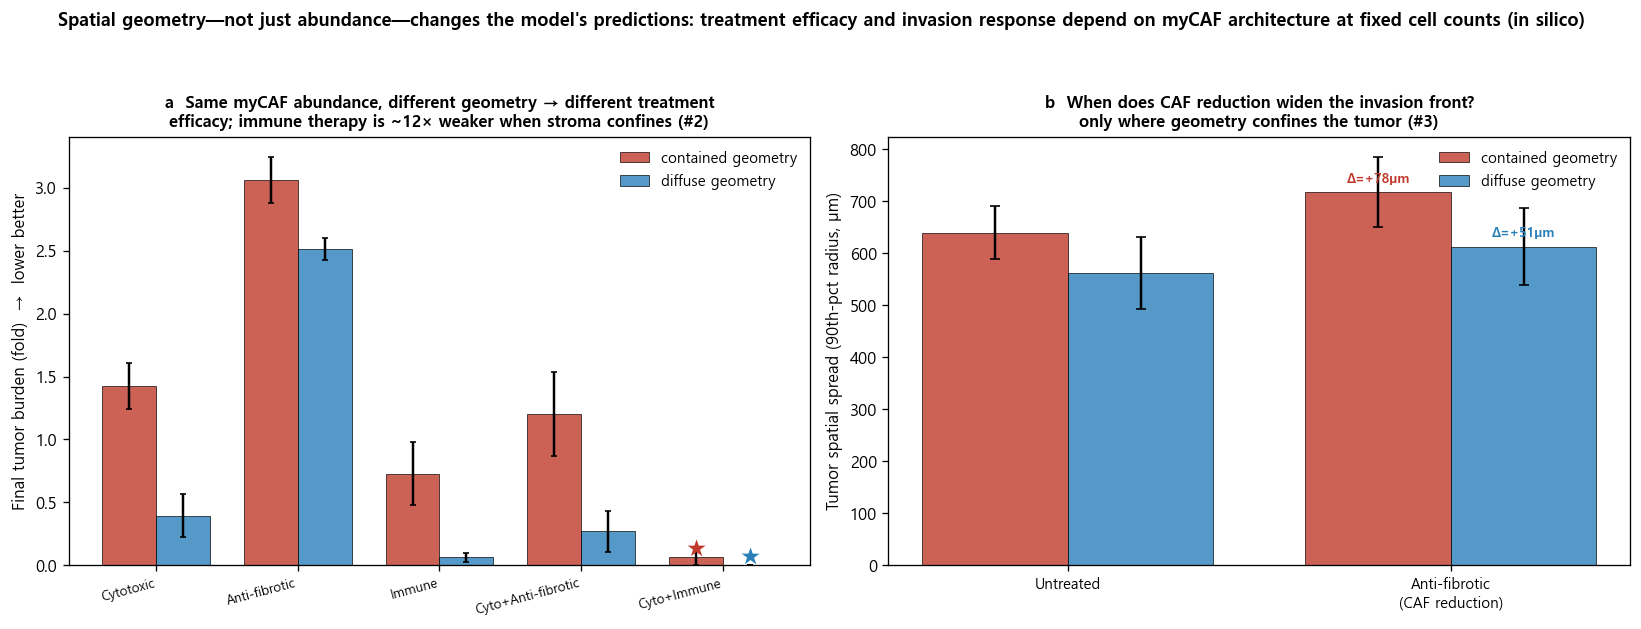
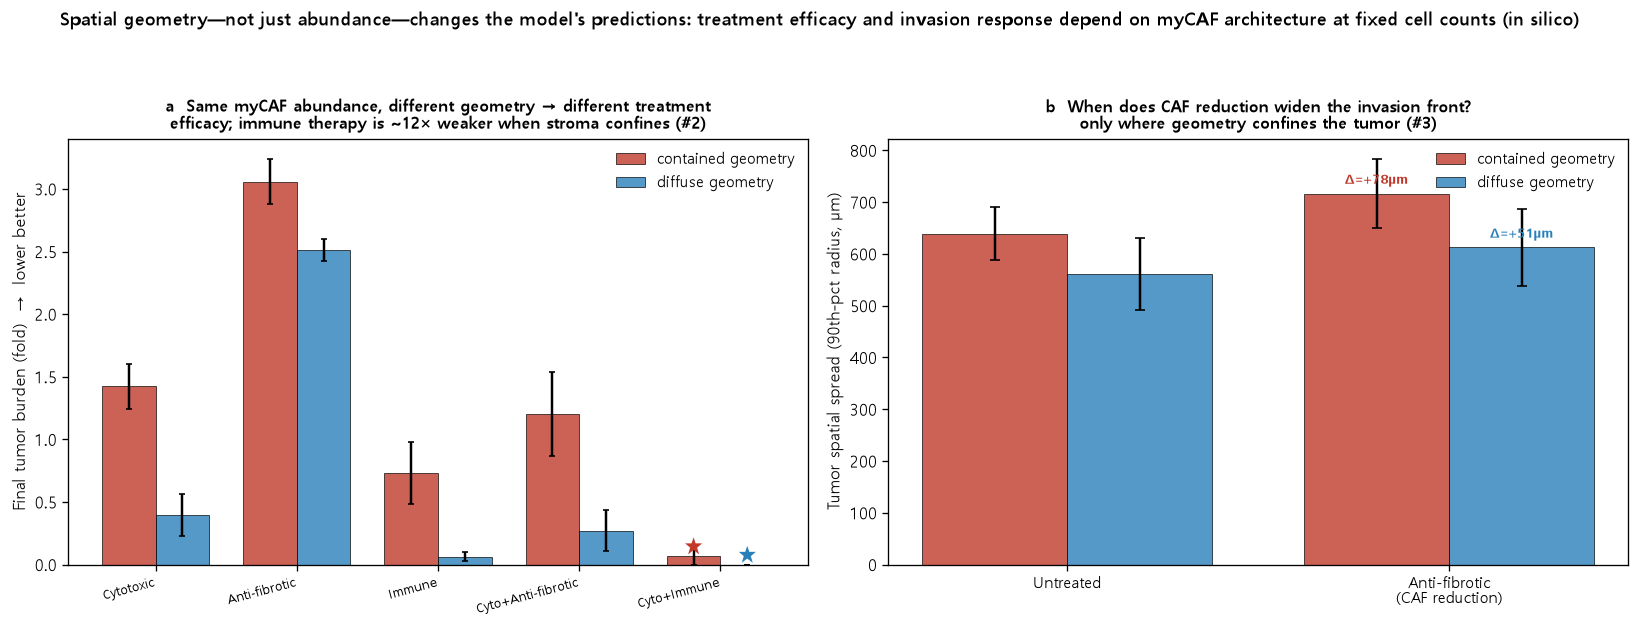
fix(sobol): restore the archived Sobol indices; revert Fig S7 values
390d44c replaced the DRM-wrapped sobol_indices.csv with a fresh re-run and
changed the reported values. The original plaintext file was still in git
history (7dcac82^), and it matches the manuscript exactly (final burden:
k_prolif S_T 0.733, k_kill S_T 0.609, S_1 0.233). Because SALib >=1.4 draws a
scrambled, unseeded Saltelli sample, a re-run cannot reproduce it, so the
archived run is restored as the reported analysis:

- data/sobol_indices.csv, assets/sobol.png restored from history
- §4.5 and Fig S7 caption back to S_T 0.73 / 0.61 (S_1 0.23), barrier and
  resistance terms S_T <= 0.12; HANDOFF likewise
- REBUILD_GUIDE §8 keeps the archived values and notes that a re-run moves the
  indices within the bootstrap CIs (e.g. 0.79 / 0.44) while the ranking holds
- the future-work wording fix from 390d44c (proliferation and T-cell killing
  are the Sobol-dominant terms) is kept

Also restores data/predict_geometry.csv and its figure to the archived run;
the phone re-run differed only at ~1e-13. The other 14 regenerated CSVs in
26f4017 are byte-identical to the archived originals.

diff --git a/docs/manuscript/manuscript.md b/docs/manuscript/manuscript.md
@@ -885,10 +885,10 @@ proliferation and immune-barrier parameters, which therefore require empirical
 calibration, and control was not guaranteed under the most aggressive proliferation
 regimes. A variance-based global (Sobol) analysis over eight parameters concurs and
 sharpens this: for final tumor burden, tumor proliferation (total-order
-$S_T\approx0.79$) and cytotoxic T-cell killing ($S_T\approx0.44$) dominate, with killing
-acting substantially through interactions ($S_T\approx0.44$ vs $S_1\approx0.13$), whereas
+$S_T\approx0.73$) and cytotoxic T-cell killing ($S_T\approx0.61$) dominate, with killing
+acting substantially through interactions ($S_T\approx0.61$ vs $S_1\approx0.23$), whereas
 the barrier parameters—physical confinement and immune exclusion—and the resistance terms
-each contribute little to the *global* variance in burden ($S_T\lesssim0.04$; Fig. S7).
+each contribute little to the *global* variance in burden ($S_T\lesssim0.12$; Fig. S7).
 The barrier parameters matter for *which stromal strategy* is optimal (§3.4) rather than
 for the overall level of burden, which is set by the tumor-versus-immune balance. The wide
 confidence intervals at this screening sample size mean the parameter *ranking*, not the
@@ -1112,7 +1112,7 @@ outcome **final tumor burden** on the adaptive-therapy arm (Saltelli sampling, $
 $N=32$; error bars are bootstrap 95% confidence intervals; runaway-growth samples were
 capped at a fixed population for tractability, which only bounds already-progressing
 regimes and does not change their progression classification). Tumor proliferation
-($S_T\approx0.79$) and cytotoxic T-cell killing ($S_T\approx0.44$) dominate; killing acts
+($S_T\approx0.73$) and cytotoxic T-cell killing ($S_T\approx0.61$) dominate; killing acts
 substantially through interactions ($S_T\gg S_1$). The barrier parameters and the
 resistance terms contribute little to the global variance in burden—they govern *which
 stromal strategy* is optimal (§3.4) rather than the overall burden level. Given the wide

diff --git a/docs/REBUILD_GUIDE.md b/docs/REBUILD_GUIDE.md
@@ -201,7 +201,7 @@ A faithful rebuild should reproduce these to within seed noise:
 
 | Analysis | Expected |
 |---|---|
-| Sobol (final burden) | `k_prolif` S_T≈0.79 and `k_kill` S_T≈0.44 (S_1≈0.13) dominate; barrier/resistance terms S_T≲0.04 (SALib ≥1.4 samples are scrambled and unseeded, so re-runs move the values within the bootstrap CIs; the ranking is the robust reading) |
+| Sobol (final burden) | `k_prolif` S_T≈0.73 and `k_kill` S_T≈0.61 dominate; barrier/resistance terms S_T≲0.12 (values from the archived run in `data/sobol_indices.csv`; SALib ≥1.4 draws a scrambled, unseeded sample, so a re-run moves the indices within the bootstrap CIs — e.g. 0.79 / 0.44 — while the ranking holds) |
 | Dense phase map | keep-stroma robust (P≥0.8) at low immune-exclusion; ~20/36 cells P(keep)≥0.6 |
 | 30-seed Pareto | combinations 30/30 progression-free; single garlic 28/30; wild ginseng 1/30; mugwort/curcumin 0/30 |
 | Monte Carlo | natural-API regimens control in **0–2%** of draws; gemcitabine **96%** |

diff --git a/docs/HANDOFF.md b/docs/HANDOFF.md
@@ -41,7 +41,7 @@ The manuscript has been through a full external-review response. Done and commit
 - **Monte Carlo** over compound effect / exposure weight / bioavailability / synergy
   (`mc_uncertainty.py`) — natural-compound control collapses to 0–2% vs gemcitabine 96%.
 - **Sobol** global SA (`sobol_analysis.py`) — reports **final tumor burden** only
-  (k_prolif ≈0.79, k_kill ≈0.44 dominant); barrier params govern *which strategy*, not burden level.
+  (k_prolif ≈0.73, k_kill ≈0.61 dominant); barrier params govern *which strategy*, not burden level.
 - **CA19-9 observation model** (`obs_model_analysis.py`), **single-agent schedule**
   comparison (`gem_schedule.py`), **spatial predictions** (`predict_geometry.py`,
   `predict_sequence.py`, `predict_biomarker.py`), **well-mixed ablation**
